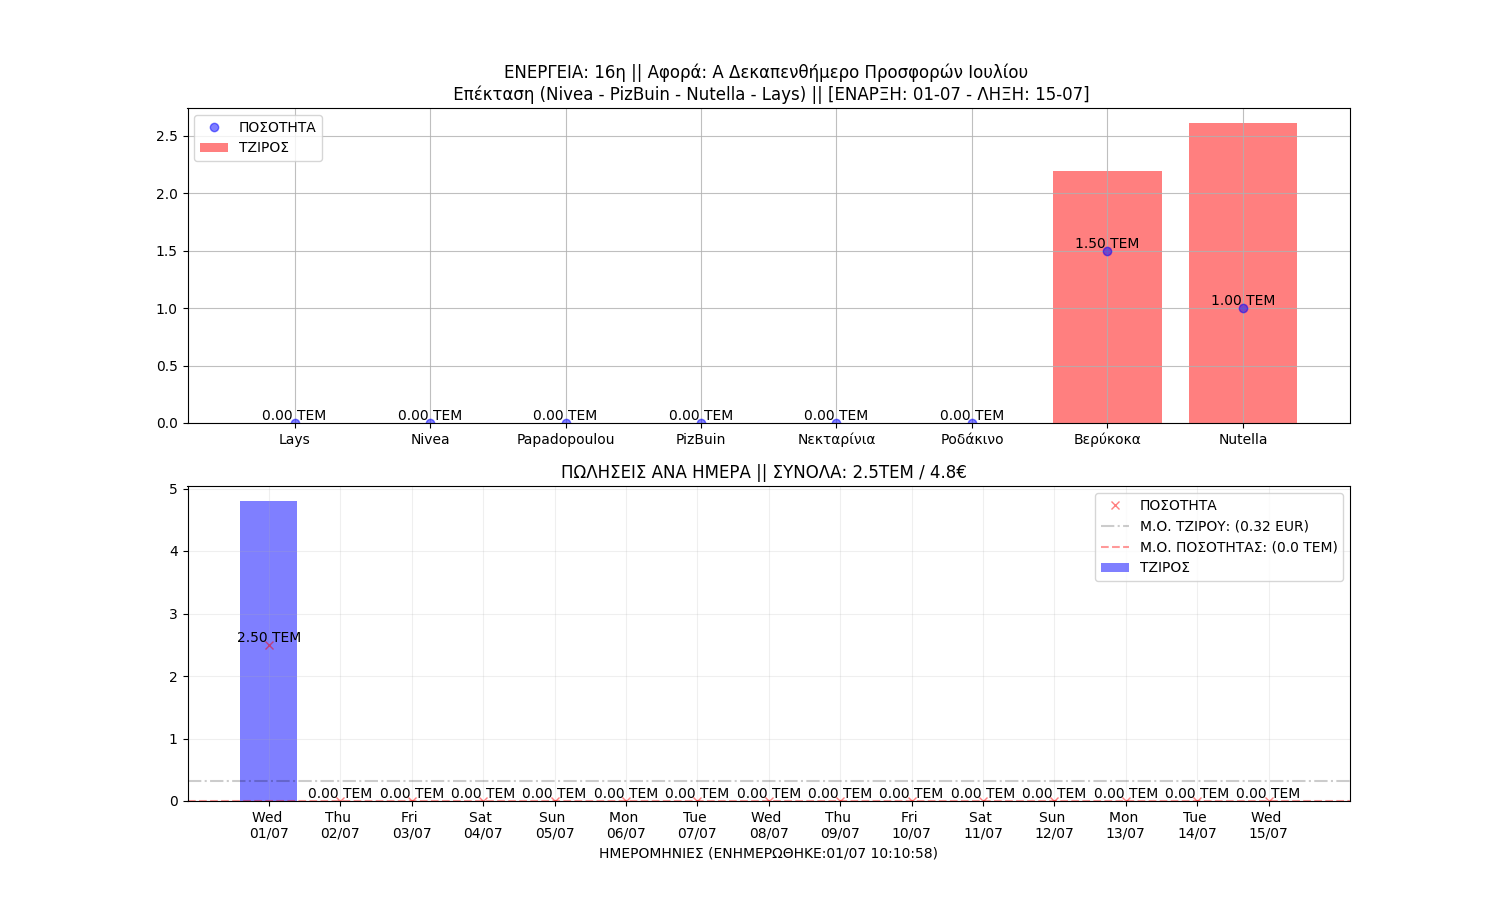
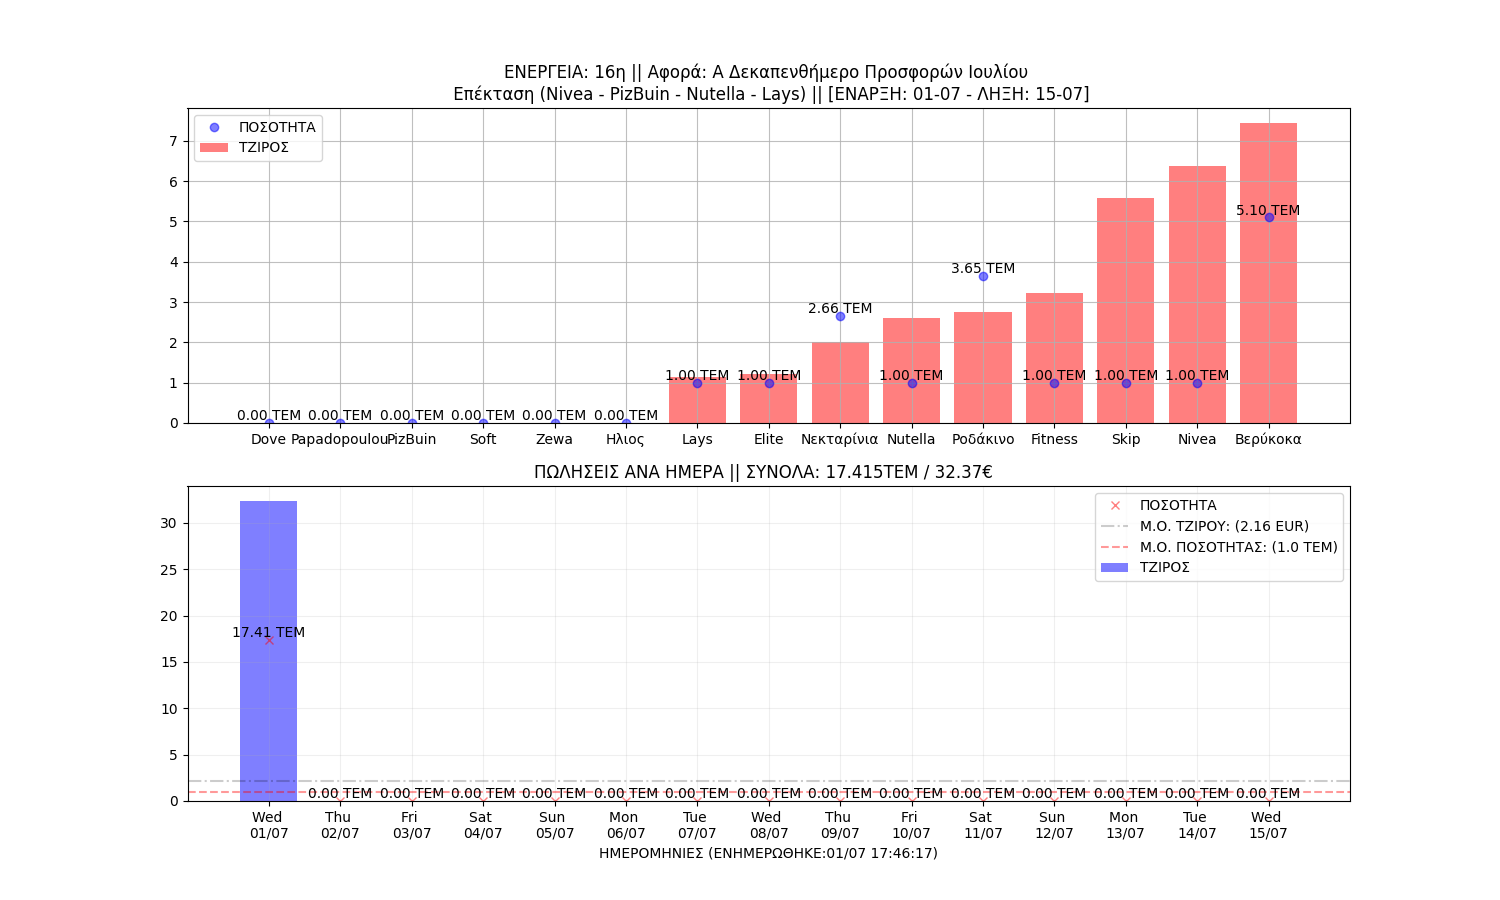
``@Ioannis E. Kommas (PyCharm Commit and Push Code Lines)``

diff --git a/A_DAILY_ΠΟΡΕΙΑ_ΤΙΜΟΚΑΤΑΛΟΓΟΥ_ΠΩΛΗΣΕΩΝ/pricelist_main_app.py b/A_DAILY_ΠΟΡΕΙΑ_ΤΙΜΟΚΑΤΑΛΟΓΟΥ_ΠΩΛΗΣΕΩΝ/pricelist_main_app.py
@@ -94,7 +94,7 @@ while True:
         plt.legend()
 
         plt.subplot(2, 1, 2, xlabel=f'ΗΜΕΡΟΜΗΝΙΕΣ (EΝΗΜΕΡΩΘΗΚΕ:{dt.now().strftime("%d/%m %H:%M:%S")})',
-                    title=f'ΠΩΛΗΣΕΙΣ ΑΝΑ ΗΜΕΡΑ || ΣΥΝΟΛΑ: {final_result.SalesQuantity.sum()}TEM / {round(final_result.Turnover.sum(), 2)}€  ')
+                    title=f'ΠΩΛΗΣΕΙΣ ΑΝΑ ΗΜΕΡΑ || ΣΥΝΟΛΑ: {round(final_result.SalesQuantity.sum(), 2)}TEM / {round(final_result.Turnover.sum(), 2)}€  ')
         plt.bar(dates_ranges.strftime('%a \n%d/%m'), tziros_per_day, alpha=0.5, color='blue', label='ΤΖΙΡΟΣ')
         plt.plot(dates_ranges.strftime('%a \n%d/%m'), quantity_per_day, alpha=0.5, color='red', label='ΠΟΣΟΤΗΤΑ', marker='x',
                  linestyle="None")
@@ -137,8 +137,8 @@ while True:
             with open('version.txt', 'w') as file:
                 file.write(f'{id}')
 
-        choose_pricelist.quantity = final_result.SalesQuantity.sum()
-        choose_pricelist.turn_over = {round(final_result.Turnover.sum(), 2)}
+        choose_pricelist.quantity = round(final_result.SalesQuantity.sum(), 2)
+        choose_pricelist.turn_over = round(final_result.Turnover.sum(), 2)
 
         # -------------------- SLACK BOT ADD TEXT --------------------
         report = f"""
@@ -146,7 +146,7 @@ while True:
         ΠΟΡΕΙΑ ΠΩΛΗΣΕΩΝ ΓΙΑ ΤΙΣ ΠΡΟΣΦΟΡΕΣ:
         ` ΣΥΜΜΕΤΕΧΟΥΝ: \t {len(final_result)} ΠΡΟΪΟΝΤΑ `
         ` DATERANGE: \t ΑΠΟ: {from_date.strftime("%d-%m-%Y")} \t ΕΩΣ: {to_date.strftime("%d-%m-%Y")} `
-        ` ΠΟΣΟΤΗΤΑ ΠΩΛΗΣΕΩΝ: \t {final_result.SalesQuantity.sum()} TEM `
+        ` ΠΟΣΟΤΗΤΑ ΠΩΛΗΣΕΩΝ: \t {round(final_result.SalesQuantity.sum(), 2)} TEM `
         ` M.O. / ΗΜΕΡΑ : \t {round(np.mean(quantity_per_day))} TEM ` 
         ` ΤΖΙΡΟΣ ΠΩΛΗΣΕΩΝ: \t {round(final_result.Turnover.sum(), 2)} EUR `
         ` M.O. / ΗΜΕΡΑ : \t {round(np.mean(tziros_per_day), 2)} EUR `
